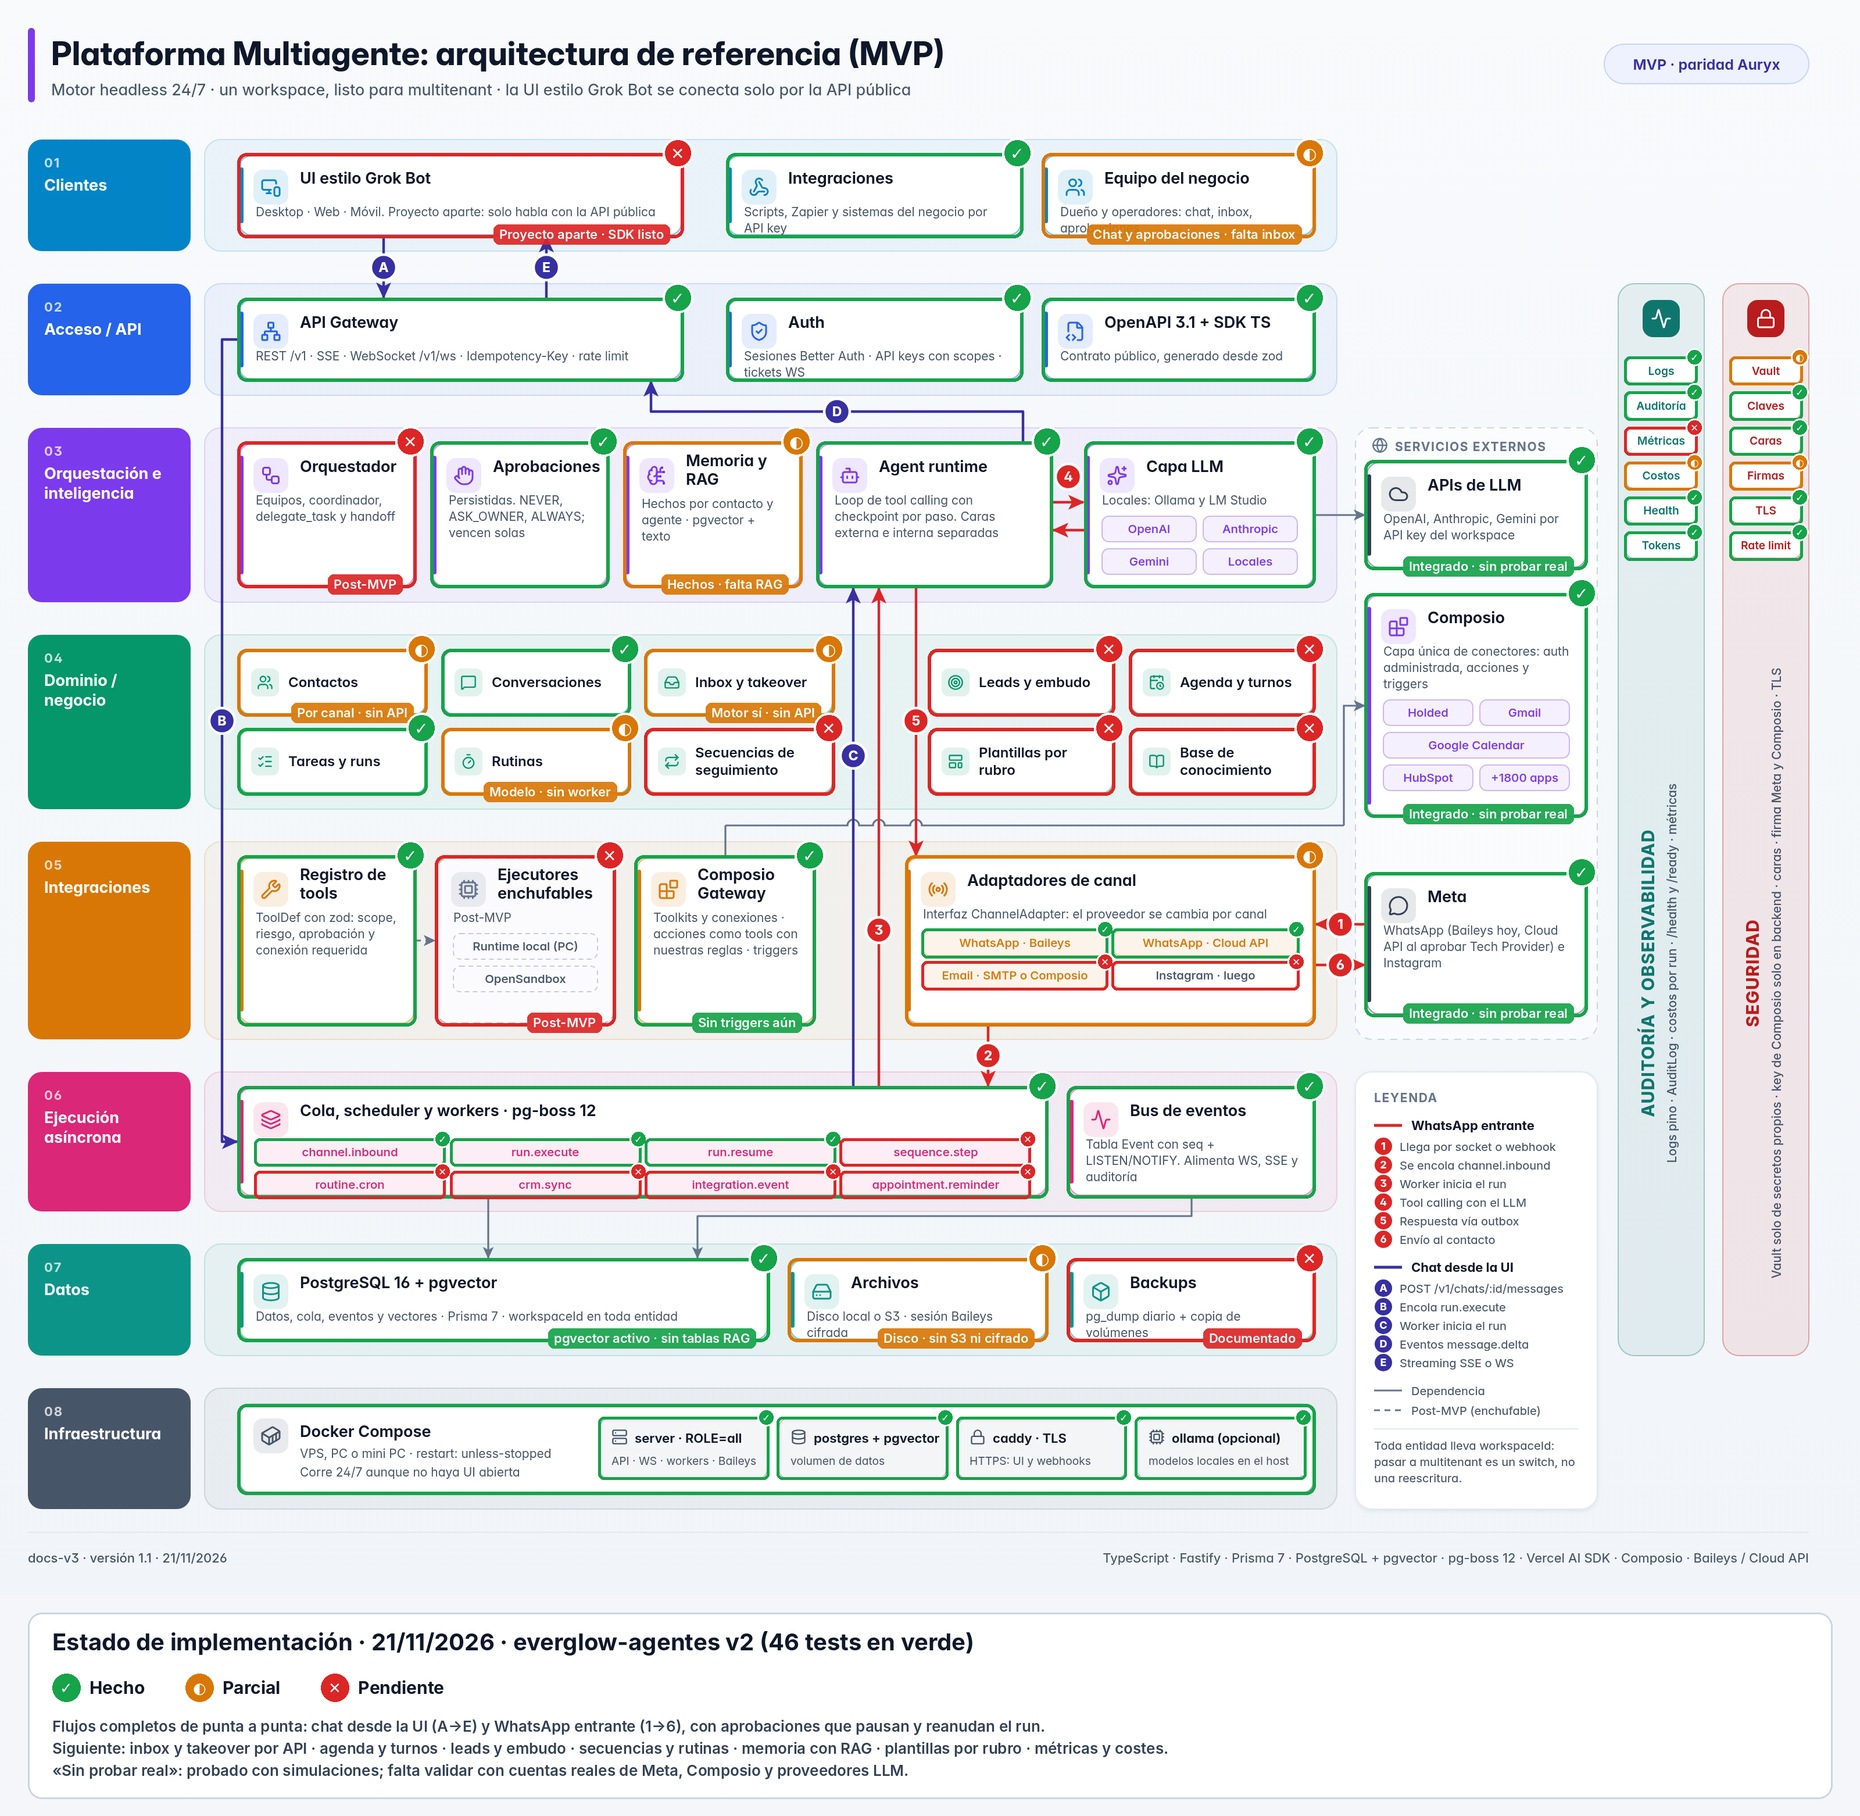
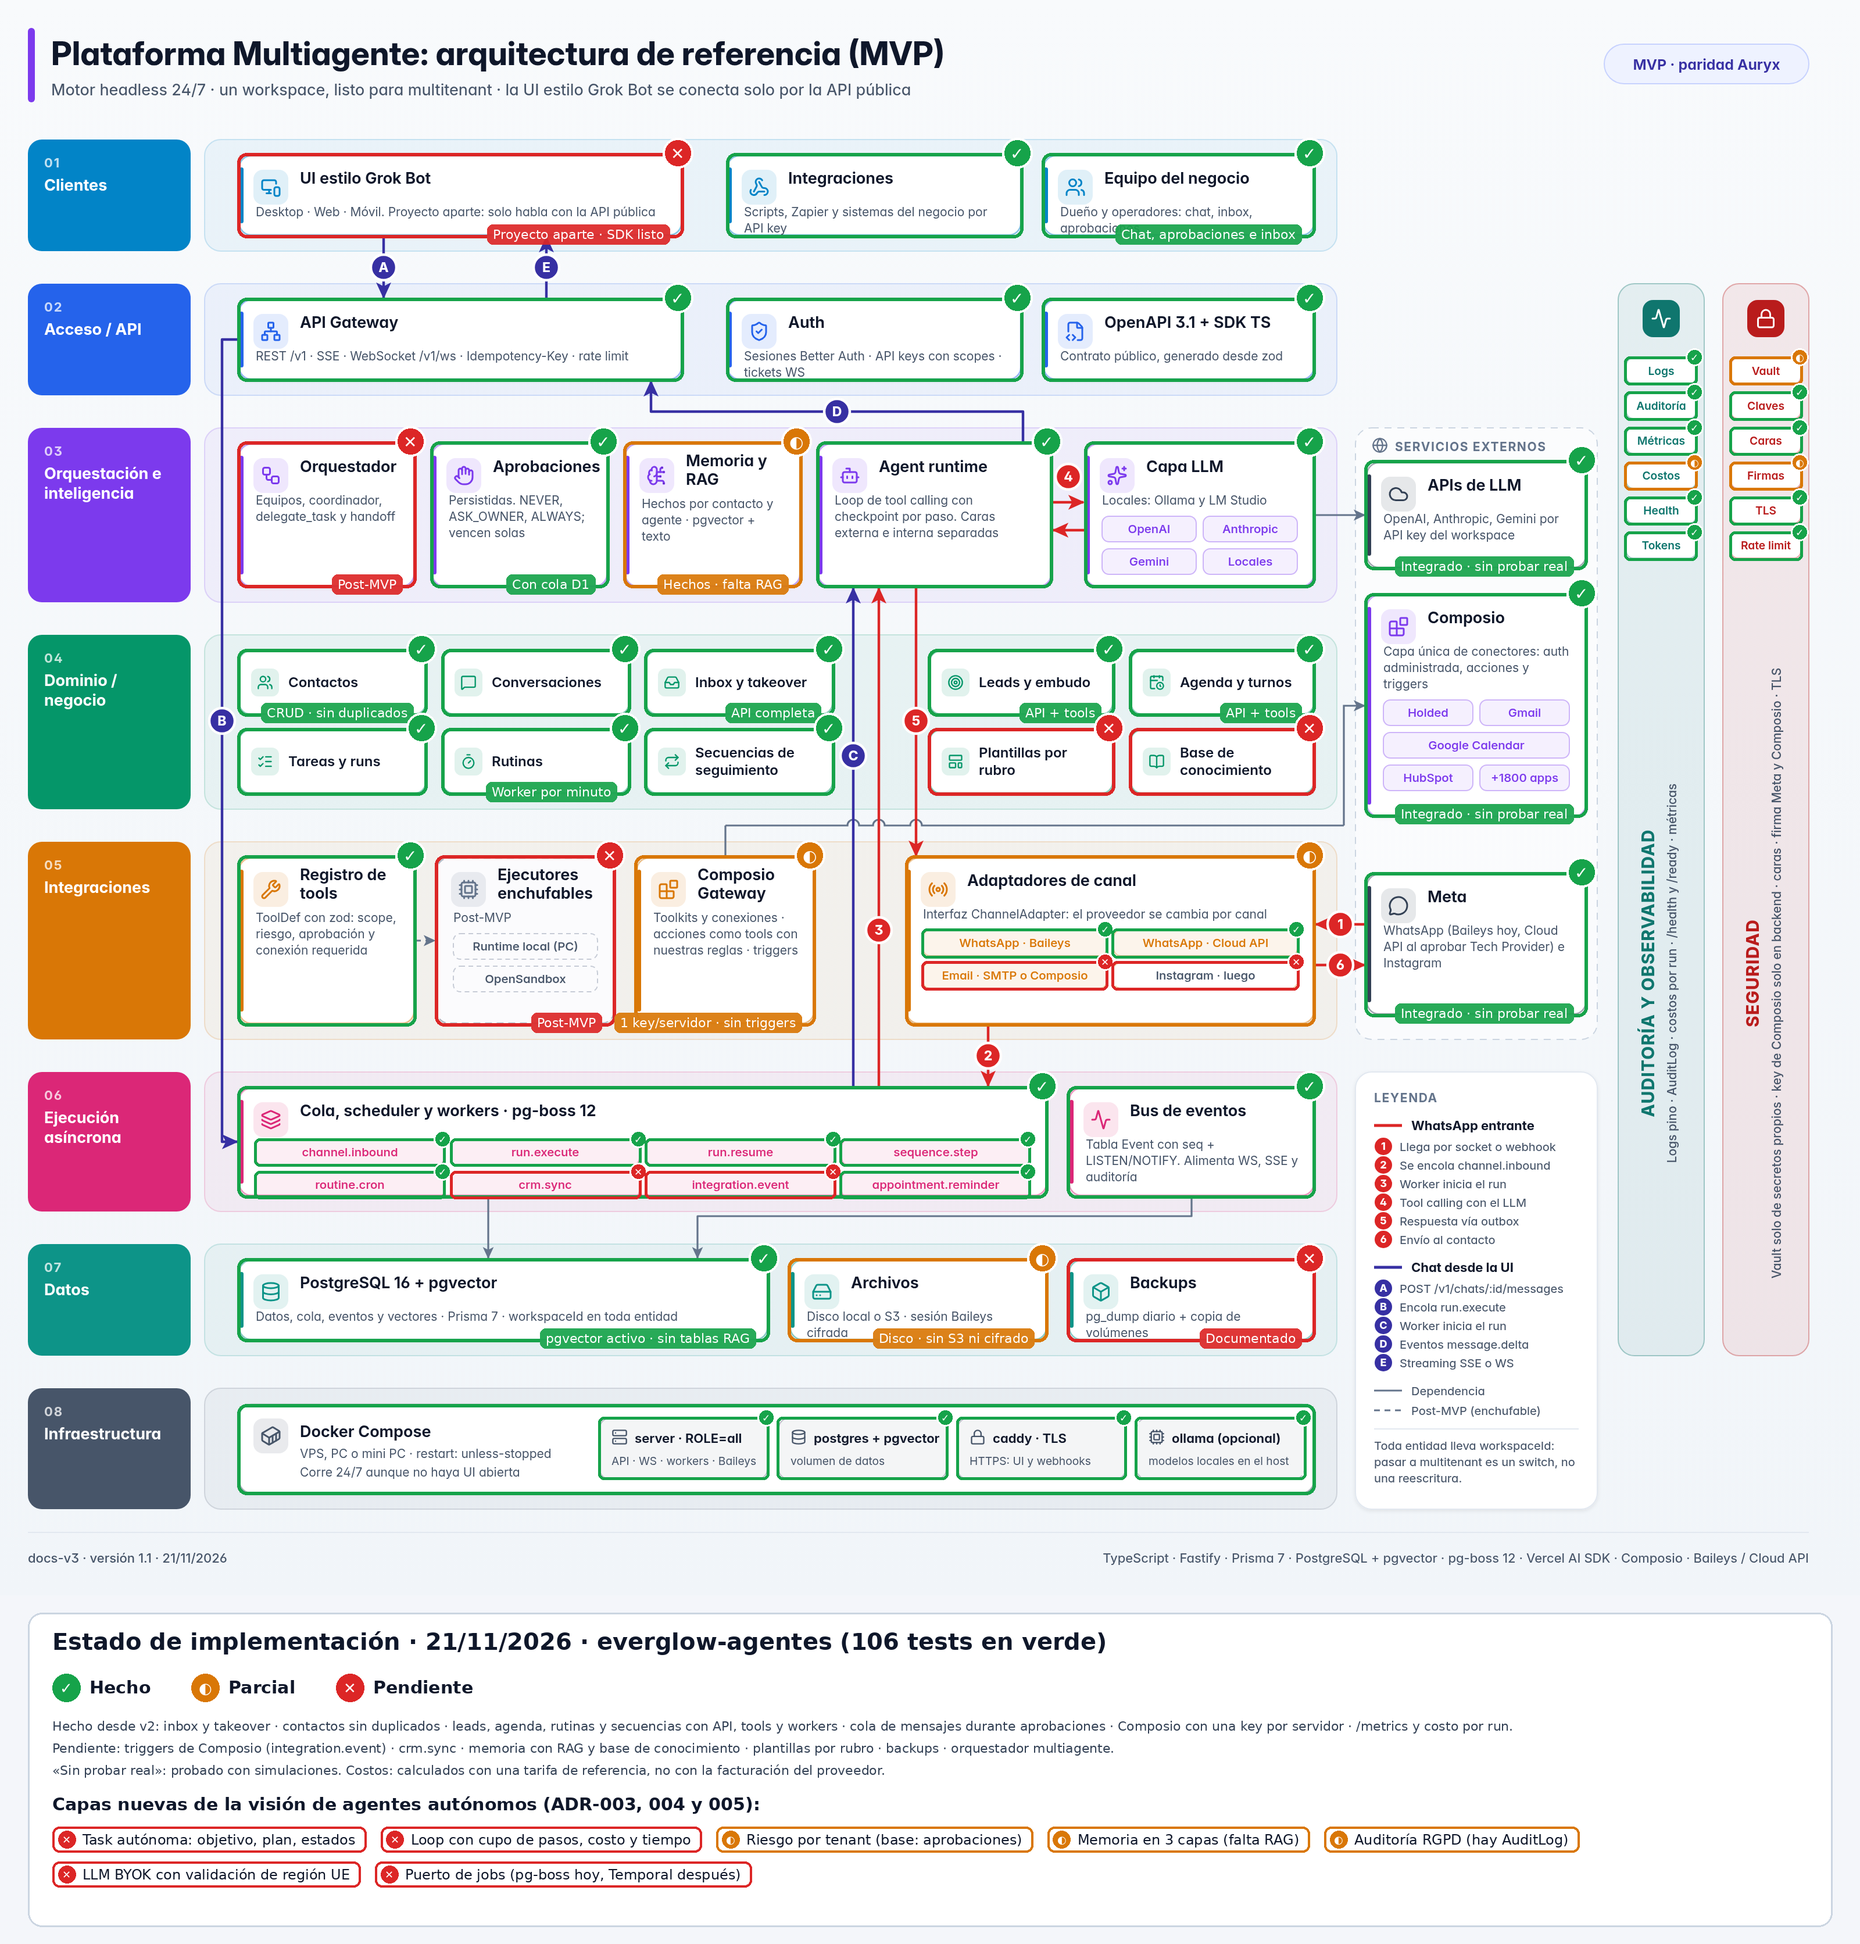
docs: estado de implementación por capa actualizado (106 tests)

Changed region(s): [[0.0, 0.0, 0.9688, 0.9936], [0.9375, 0.4657, 0.9688, 0.5899], [0.875, 0.031, 0.9688, 0.0621]]

diff --git a/docs/annotate-estado.py b/docs/annotate-estado.py
@@ -1,17 +1,17 @@
 from PIL import Image, ImageDraw, ImageFont
-SRC = "/mnt/user-data/uploads/1333f9da-image.png"
-OUT = "/home/claude/annot/arquitectura-v3-estado.png"
+SRC = "docs/arquitectura-v3.png"
+OUT = "docs/arquitectura-v3-estado.png"
 S = 3200 / 2072  # coordenadas medidas sobre la vista de 2072 px de ancho
 
-FONT_B = "/usr/share/fonts/opentype/inter/Inter-Bold.otf"
-FONT_M = "/usr/share/fonts/opentype/inter/Inter-SemiBold.otf"
+FONT_B = "/usr/share/fonts/truetype/dejavu/DejaVuSans-Bold.ttf"
+FONT_M = "/usr/share/fonts/truetype/dejavu/DejaVuSans.ttf"
 FONT_SYM = "/usr/share/fonts/truetype/dejavu/DejaVuSans-Bold.ttf"
 GREEN, AMBER, RED = (22, 163, 74), (217, 119, 6), (220, 38, 38)
 STYLE = {"done": (GREEN, "✓"), "partial": (AMBER, "◐"), "todo": (RED, "✕")}
 
 base = Image.open(SRC).convert("RGBA")
 W, H = base.size
-EXTRA = 380
+EXTRA = 600
 canvas = Image.new("RGBA", (W, H + EXTRA), (244, 246, 250, 255))
 canvas.paste(base, (0, 0))
 over = Image.new("RGBA", canvas.size, (0, 0, 0, 0))
@@ -49,32 +49,32 @@ def chip(x1, y1, x2, y2, state):
 # 01 Clientes
 box(267, 173, 759, 262, "todo", "Proyecto aparte · SDK listo")
 box(811, 173, 1137, 262, "done")
-box(1163, 173, 1463, 262, "partial", "Chat y aprobaciones · falta inbox")
+box(1163, 173, 1463, 262, "done", "Chat, aprobaciones e inbox")
 # 02 Acceso / API
 box(267, 334, 759, 422, "done")
 box(811, 334, 1137, 422, "done")
 box(1163, 334, 1463, 422, "done")
 # 03 Orquestación
 box(267, 494, 461, 652, "todo", "Post-MVP")
-box(482, 494, 676, 652, "done")
+box(482, 494, 676, 652, "done", "Con cola D1")
 box(697, 494, 891, 652, "partial", "Hechos · falta RAG")
 box(912, 494, 1170, 652, "done")
 box(1210, 494, 1463, 652, "done")
 # 04 Dominio
-box(267, 725, 473, 795, "partial", "Por canal · sin API")
+box(267, 725, 473, 795, "done", "CRUD · sin duplicados")
 box(494, 725, 700, 795, "done")
-box(720, 725, 927, 795, "partial", "Motor sí · sin API")
-box(1036, 725, 1239, 795, "todo")
-box(1260, 725, 1463, 795, "todo")
+box(720, 725, 927, 795, "done", "API completa")
+box(1036, 725, 1239, 795, "done", "API + tools")
+box(1260, 725, 1463, 795, "done", "API + tools")
 box(267, 813, 473, 883, "done")
-box(494, 813, 700, 883, "partial", "Modelo · sin worker")
-box(720, 813, 927, 883, "todo")
+box(494, 813, 700, 883, "done", "Worker por minuto")
+box(720, 813, 927, 883, "done")
 box(1036, 813, 1239, 883, "todo")
 box(1260, 813, 1463, 883, "todo")
 # 05 Integraciones
 box(267, 955, 461, 1140, "done")
 box(487, 955, 683, 1140, "todo", "Post-MVP")
-box(709, 955, 906, 1140, "done", "Sin triggers aún")
+box(709, 955, 906, 1140, "partial", "1 key/servidor · sin triggers")
 box(1011, 955, 1463, 1140, "partial", badge=True)
 chip(1028, 1036, 1232, 1065, "done")
 chip(1240, 1036, 1445, 1065, "done")
@@ -87,8 +87,8 @@ box(1522, 974, 1766, 1130, "done", "Integrado · sin probar real")
 # 06 Ejecución
 box(267, 1212, 1165, 1332, "done", badge=True)
 cols = [(285, 494), (503, 712), (720, 929), (937, 1146)]
-row1 = ["done", "done", "done", "todo"]  # channel.inbound, run.execute, run.resume, sequence.step
-row2 = ["todo", "todo", "todo", "todo"]  # routine.cron, crm.sync, integration.event, appointment.reminder
+row1 = ["done", "done", "done", "done"]  # channel.inbound, run.execute, run.resume, sequence.step
+row2 = ["done", "todo", "todo", "done"]  # routine.cron, crm.sync, integration.event, appointment.reminder
 for (a, b), st in zip(cols, row1):
     chip(a, 1270, b, 1297, st)
 for (a, b), st in zip(cols, row2):
@@ -104,7 +104,7 @@ for a, b in [(668, 855), (867, 1054), (1067, 1253), (1266, 1453)]:
     chip(a, 1580, b, 1646, "done")
 # Observabilidad (Logs, Auditoría, Métricas, Costos, Health, Tokens)
 pills_y = [(399, 427), (438, 466), (477, 505), (516, 544), (555, 583), (594, 622)]
-for (a, b), st in zip(pills_y, ["done", "done", "todo", "partial", "done", "done"]):
+for (a, b), st in zip(pills_y, ["done", "done", "done", "partial", "done", "done"]):
     chip(1811, a, 1889, b, st)
 # Seguridad (Vault, Claves, Caras, Firmas, TLS, Rate limit)
 for (a, b), st in zip(pills_y, ["partial", "done", "done", "partial", "done", "done"]):
@@ -113,7 +113,7 @@ for (a, b), st in zip(pills_y, ["partial", "done", "done", "partial", "done", "d
 # Leyenda y resumen (franja inferior)
 y0 = H + 30
 d.rounded_rectangle((48, y0, W - 48, H + EXTRA - 30), radius=24, fill=(255, 255, 255, 255), outline=(203, 213, 225, 255), width=3)
-d.text((90, y0 + 50), "Estado de implementación · 21/11/2026 · everglow-agentes v2 (46 tests en verde)", font=fb(40), fill=(15, 23, 42, 255), anchor="lm")
+d.text((90, y0 + 50), "Estado de implementación · 21/11/2026 · everglow-agentes (106 tests en verde)", font=fb(40), fill=(15, 23, 42, 255), anchor="lm")
 lx = 90
 for state, label in [("done", "Hecho"), ("partial", "Parcial"), ("todo", "Pendiente")]:
     color, sym = STYLE[state]
@@ -122,12 +122,23 @@ for state, label in [("done", "Hecho"), ("partial", "Parcial"), ("todo", "Pendie
     d.text((lx + 64, y0 + 129), label, font=fb(30), fill=(15, 23, 42, 255), anchor="lm")
     lx += 64 + d.textlength(label, font=fb(30)) + 70
 lines = [
-    "Flujos completos de punta a punta: chat desde la UI (A→E) y WhatsApp entrante (1→6), con aprobaciones que pausan y reanudan el run.",
-    "Siguiente: inbox y takeover por API · agenda y turnos · leads y embudo · secuencias y rutinas · memoria con RAG · plantillas por rubro · métricas y costes.",
-    "«Sin probar real»: probado con simulaciones; falta validar con cuentas reales de Meta, Composio y proveedores LLM.",
+    "Hecho desde v2: inbox y takeover · contactos sin duplicados · leads, agenda, rutinas y secuencias con API, tools y workers · cola de mensajes durante aprobaciones · Composio con una key por servidor · /metrics y costo por run.",
+    "Pendiente: triggers de Composio (integration.event) · crm.sync · memoria con RAG y base de conocimiento · plantillas por rubro · backups · orquestador multiagente.",
+    "«Sin probar real»: probado con simulaciones. Costos: calculados con una tarifa de referencia, no con la facturación del proveedor.",
 ]
 for i, line in enumerate(lines):
-    d.text((90, y0 + 195 + i * 38), line, font=fm(26), fill=(51, 65, 85, 255), anchor="lm")
+    d.text((90, y0 + 195 + i * 38), line, font=fm(22), fill=(51, 65, 85, 255), anchor="lm")
 
+# Capas nuevas (ADR-003/004/005), aún no reflejadas en el diagrama base
+y1 = y0 + 330
+d.text((90, y1), "Capas nuevas de la visión de agentes autónomos (ADR-003, 004 y 005):", font=fb(30), fill=(15, 23, 42, 255), anchor="lm")
+items = [("todo","Task autónoma: objetivo, plan, estados"),("todo","Loop con cupo de pasos, costo y tiempo"),("partial","Riesgo por tenant (base: aprobaciones)"),("partial","Memoria en 3 capas (falta RAG)"),("partial","Auditoría RGPD (hay AuditLog)"),("todo","LLM BYOK con validación de región UE"),("todo","Puerto de jobs (pg-boss hoy, Temporal después)")]
+x=90; y=y1+60
+for st,label in items:
+    color,sym=STYLE[st]; f=fm(24); tw=d.textlength(label,font=f)
+    if x+tw+80 > W-90: x=90; y+=60
+    d.rounded_rectangle((x,y-22,x+tw+70,y+22),radius=12,outline=color+(255,),width=4,fill=(255,255,255,255))
+    d.ellipse((x+10,y-15,x+40,y+15),fill=color+(255,)); d.text((x+25,y+1),sym,font=fs(18),fill=(255,255,255,255),anchor="mm")
+    d.text((x+52,y),label,font=f,fill=(15,23,42,255),anchor="lm"); x+=tw+95
 Image.alpha_composite(canvas, over).convert("RGB").save(OUT, optimize=True)
 print(OUT)
